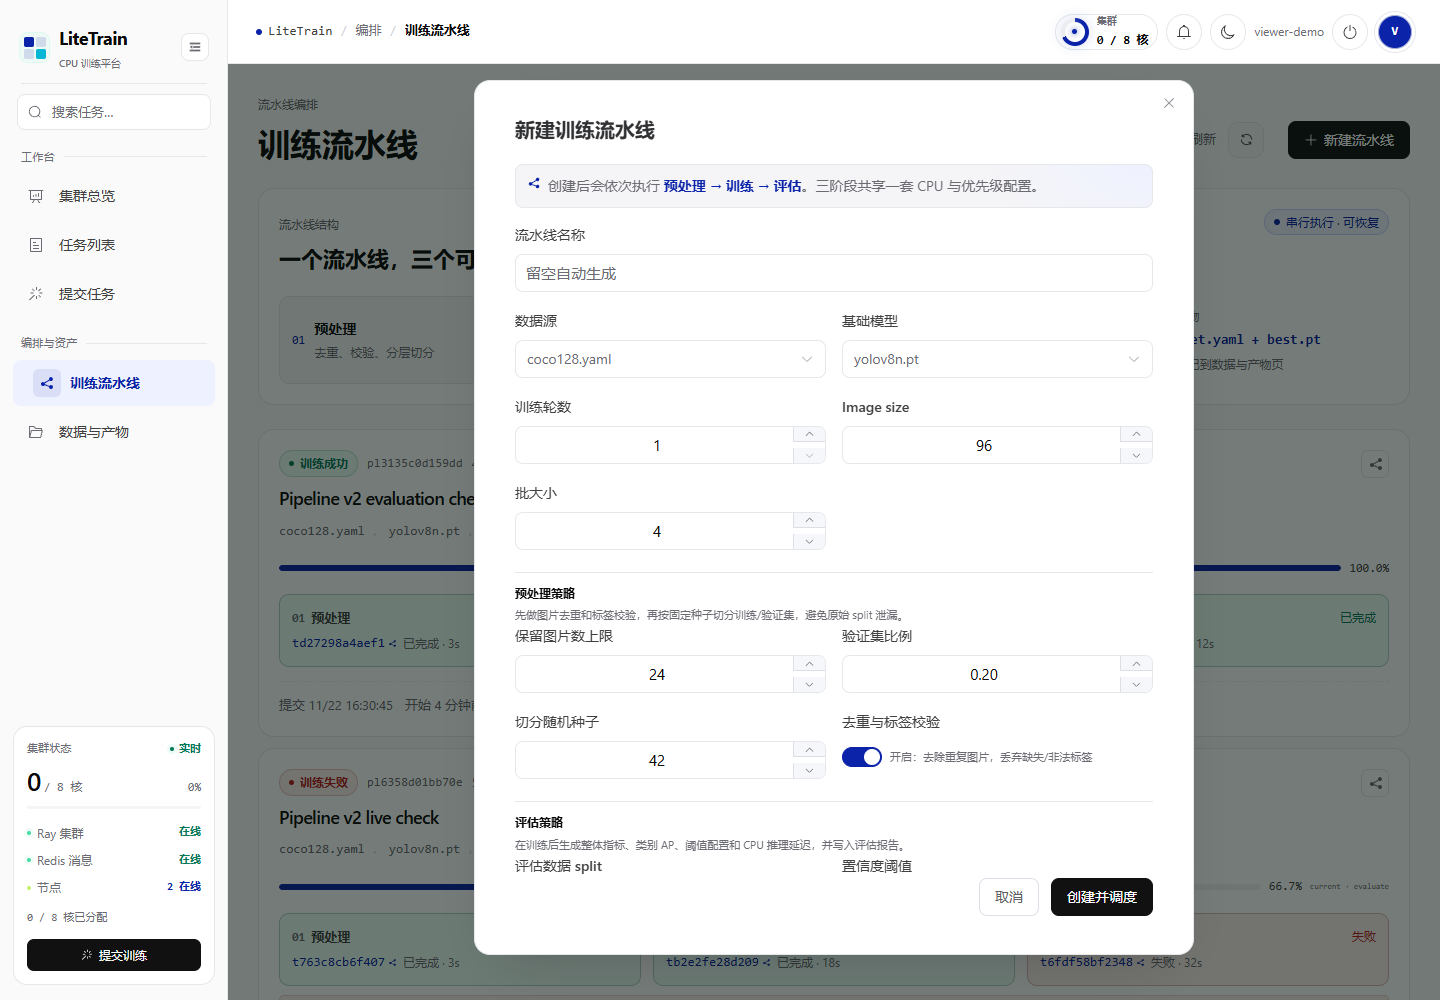
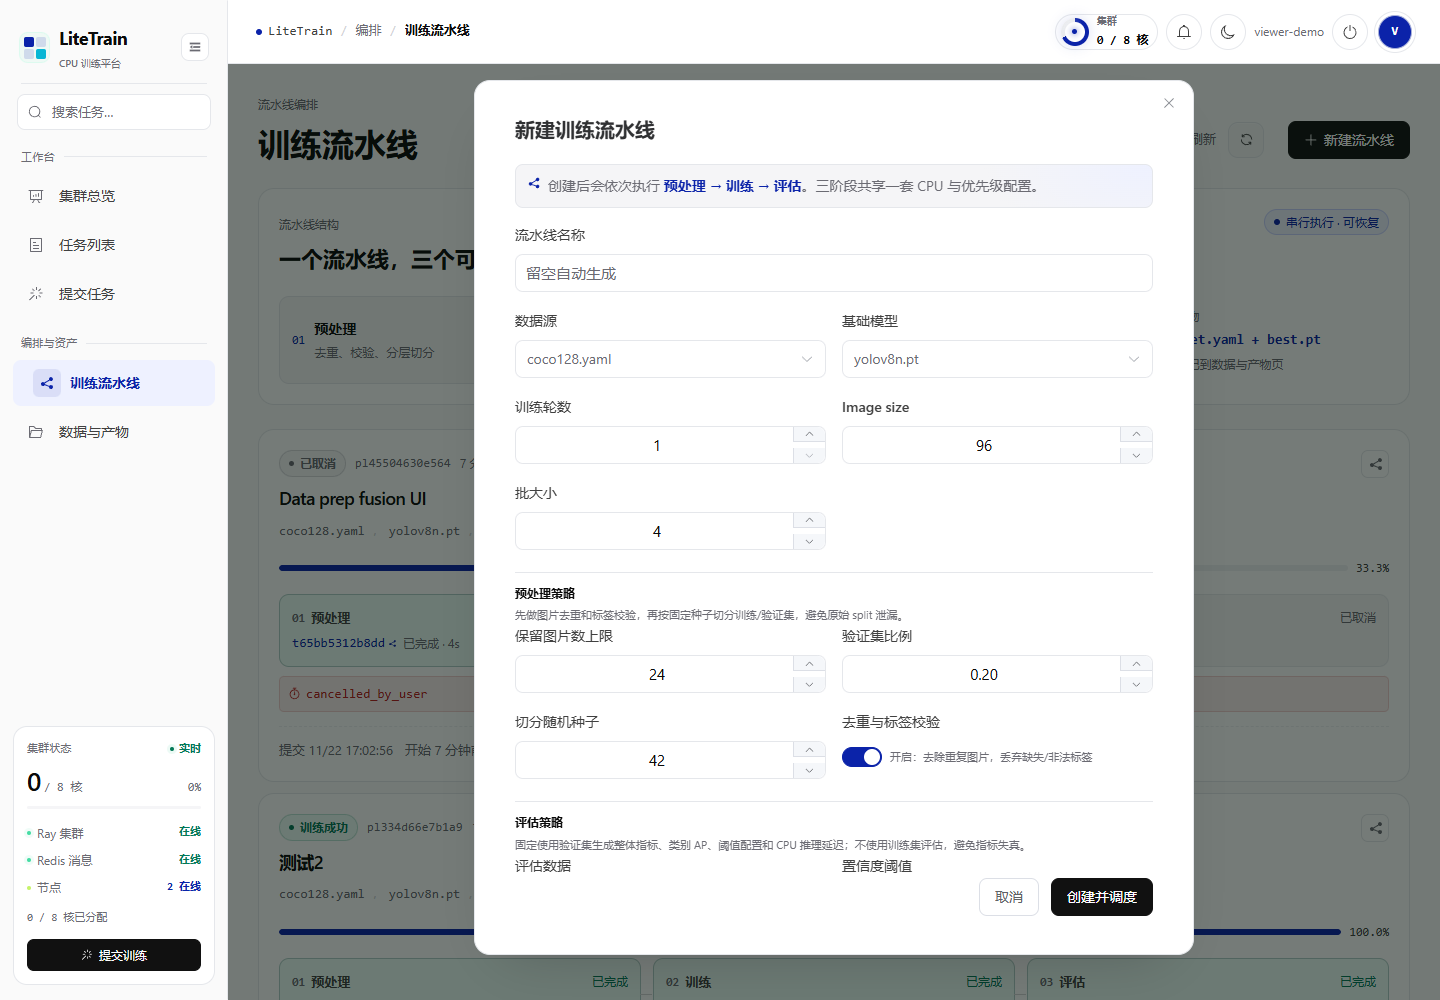
fix(pipelines): evaluate on validation split only

diff --git a/frontend/src/views/PipelinesView.vue b/frontend/src/views/PipelinesView.vue
@@ -549,13 +549,13 @@ onBeforeUnmount(() => {
           </el-form-item>
           <div class="form-section span-2">
             <strong>评估策略</strong>
-            <span>在训练后生成整体指标、类别 AP、阈值配置和 CPU 推理延迟，并写入评估报告。</span>
+            <span>固定使用验证集生成整体指标、类别 AP、阈值配置和 CPU 推理延迟；不使用训练集评估，避免指标失真。</span>
           </div>
-          <el-form-item label="评估数据 split">
-            <el-select v-model="form.eval_split" class="full">
-              <el-option label="验证集 val" value="val" />
-              <el-option label="训练集 train" value="train" />
-            </el-select>
+          <el-form-item label="评估数据">
+            <div class="fixed-policy">
+              <strong>验证集 val</strong>
+              <span>固定</span>
+            </div>
           </el-form-item>
           <el-form-item label="置信度阈值">
             <el-input-number
@@ -1180,6 +1180,31 @@ onBeforeUnmount(() => {
   color: var(--text-muted);
   font-size: 10px;
   line-height: 1.4;
+}
+
+.fixed-policy {
+  display: flex;
+  align-items: center;
+  gap: 8px;
+  min-height: 32px;
+  padding: 0 11px;
+  border: 1px solid var(--border);
+  border-radius: 6px;
+  background: var(--panel-soft);
+}
+
+.fixed-policy strong {
+  color: var(--text-secondary);
+  font-size: 12px;
+  font-weight: 500;
+}
+
+.fixed-policy span {
+  padding: 1px 5px;
+  border-radius: 3px;
+  background: var(--accent-soft);
+  color: var(--accent);
+  font-size: 9px;
 }
 
 .switch-field {

diff --git a/backend/tests/test_p2.py b/backend/tests/test_p2.py
@@ -404,6 +404,26 @@ def test_pipeline_coordinator_serial_stages(client, ctx, payload):
     shutil.rmtree(ctx.settings.runs_dir / eval_task_id, ignore_errors=True)
 
 
+def test_pipeline_evaluation_must_use_validation_split(client):
+    response = client.post(
+        "/api/v1/pipelines",
+        json={
+            "name": "train split eval",
+            "source_dataset": "coco128.yaml",
+            "model": "yolov8n.pt",
+            "epochs": 1,
+            "imgsz": 64,
+            "batch_size": 2,
+            "cpu_cores": 2,
+            "max_runtime_seconds": 60,
+            "max_retries": 0,
+            "eval_split": "train",
+        },
+    )
+    assert response.status_code == 422
+    assert "验证集" in response.json()["detail"]
+
+
 def test_pipeline_rejects_over_admin_runtime_limits(client, ctx):
     ctx.settings.default_max_runtime_seconds = 30
     ctx.settings.default_max_retries = 1

diff --git a/backend/app/services/pipelines.py b/backend/app/services/pipelines.py
@@ -252,6 +252,8 @@ class PipelineService:
             self.settings.max_runtime_seconds_limit,
         )
         retry_cap = max(0, min(5, self.settings.default_max_retries))
+        if payload.eval_split != "val":
+            raise PipelineError("评估必须使用验证集 val，避免训练集指标失真")
         if payload.max_runtime_seconds > runtime_cap:
             raise PipelineError(
                 f"max_runtime_seconds must be <= platform limit ({runtime_cap}s configured in admin)"
